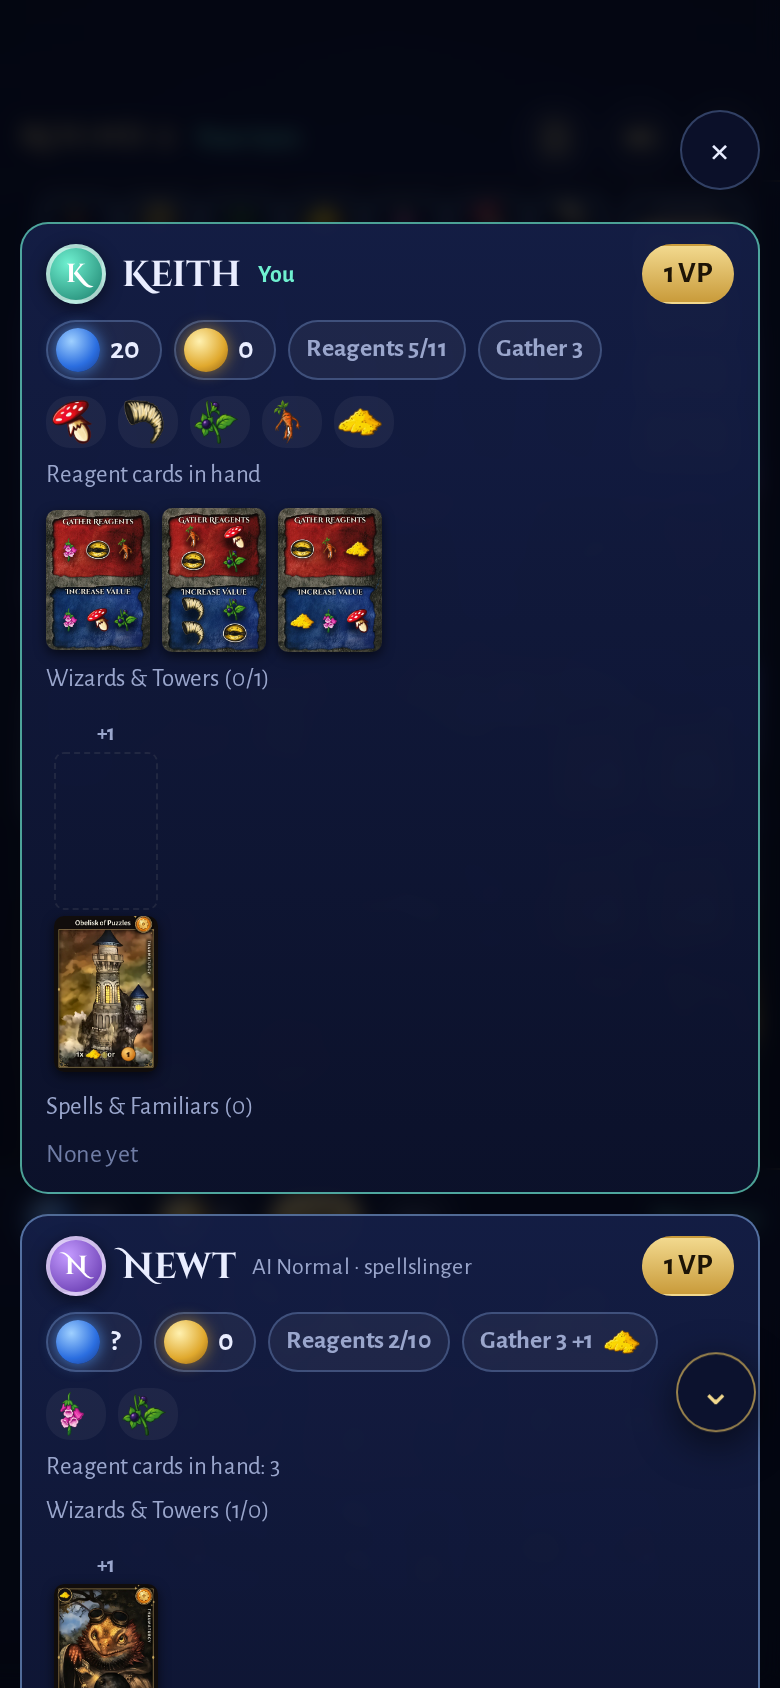
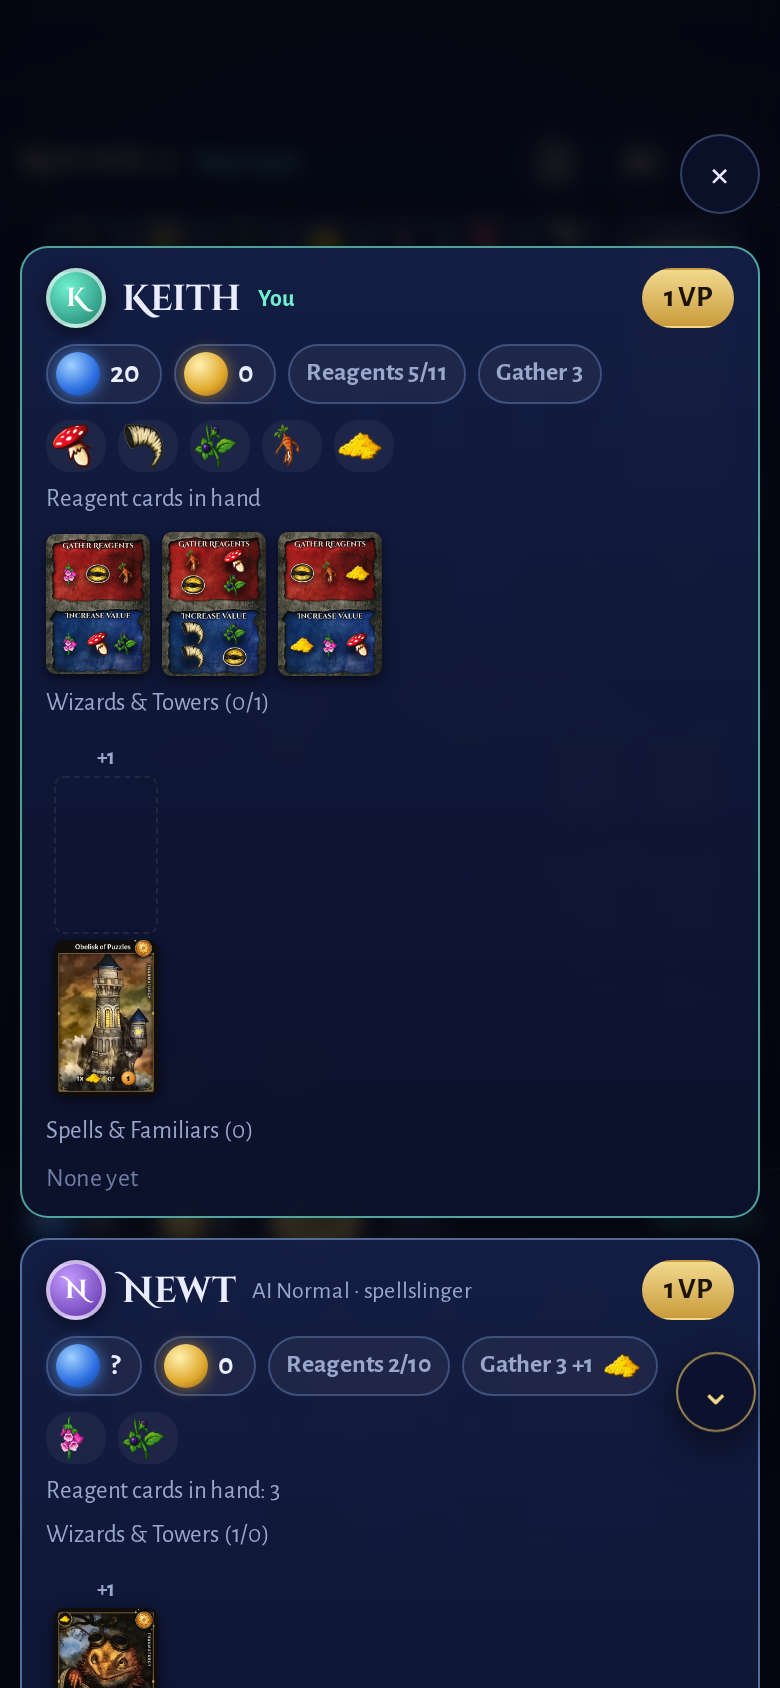
Card detail: frame the card so its trimmed top (title, medallion) never sits flush under the status bar/close row; test Obelisk + Obsidian Fortress with a 59 px status bar; more-below hint ignores the bottom spacer

Changed region(s): [[0.0308, 0.5237, 0.9846, 1.0], [0.0308, 0.0616, 0.9846, 0.4621]]

diff --git a/tests/e2e/phone.spec.js b/tests/e2e/phone.spec.js
@@ -5,7 +5,7 @@ import { test, expect } from './fixtures.js';
 import fs from 'fs';
 import { watchErrors, view, shot, me } from './helpers.js';
 
-const INSET = { top: 47, bottom: 34, chrome: 84 };
+const INSET = { top: 59, bottom: 34, chrome: 84 };          // Dynamic Island status bar (iPhone 14 Pro and later), home indicator, Safari bar
 const G8 = JSON.parse(fs.readFileSync('engine/game/g8_state.json', 'utf8'));
 const P = (s, n) => s.players.find((p) => p.name === n);
 const ACH_FILE = 'engine/cards/cards.json';                 // the achievement pool scripts/deal4.py draws 4 tiles from
@@ -49,24 +49,48 @@ test('Scribe picker: all 5 spell cards reachable above the browser bar; picking 
   expect(errors, errors.join('\n')).toEqual([]);
 });
 
-test('card detail: the whole card is visible under the status bar; close button never covers it', async ({ page }) => {
-  await open(page);
-  await page.getByTestId('slot-tower_face').tap();
-  const ov = page.getByTestId('expanded');
-  await expect(ov).toBeVisible();
-  await page.waitForTimeout(500);
-  await scrollOverlay(page, 'expanded', 'top');
-  const L = await limits(page);
-  const img = await box(page.getByTestId('expanded-img'));
-  const close = await box(ov.getByTestId('ov-close'));
-  expect(img.top, 'card top below the status bar').toBeGreaterThanOrEqual(L.top);
-  expect(close.bottom, 'close button sits above the card, not on it').toBeLessThanOrEqual(img.top + 1);
-  expect(close.top).toBeGreaterThanOrEqual(L.top);
-  await shot(page, '10-card-detail');
-  await scrollOverlay(page, 'expanded', 'bottom');
-  const btn = await box(page.getByTestId('build-reagent'));
-  expect(btn.bottom, 'action button clears the bottom bar').toBeLessThanOrEqual(L.bottom);
-});
+for (const [name, tower] of [['Obelisk of Puzzles', 'Tower_T1_Obelisk_of_Puzzles'], ['Obsidian Fortress', 'Tower_T1_Obsidian_Fortress']]) {
+  test(`card detail (${name}): the card's top edge and title sit fully below the status bar and close row, uncropped`, async ({ page }) => {
+    await open(page, (s) => {
+      const t = `assets/${tower}.jpg`;
+      if (s.tower_face !== t) { s.tow_list = s.tow_list.filter((x) => x !== t); s.tow_list.unshift(s.tower_face); s.tower_face = t; }
+    });
+    await page.getByTestId('slot-tower_face').tap();
+    const ov = page.getByTestId('expanded');
+    await expect(ov).toBeVisible();
+    await expect(page.getByTestId('expanded-img')).toHaveAttribute('src', new RegExp(tower));
+    await page.getByTestId('expanded-img').evaluate((i) => i.decode());
+    await page.waitForTimeout(500);                                   // zoom-in animation
+    await scrollOverlay(page, 'expanded', 'top');
+    const L = await limits(page);
+    const m = await page.getByTestId('expanded-card').evaluate((frame) => {
+      const img = frame.querySelector('img'); const f = frame.getBoundingClientRect(); const r = img.getBoundingClientRect();
+      const close = frame.closest('.overlay').querySelector('[data-testid=ov-close]').getBoundingClientRect();
+      let clipped = null;
+      for (let a = img.parentElement; a && !a.classList.contains('overlay'); a = a.parentElement) {
+        const st = getComputedStyle(a);
+        if (st.overflow === 'visible') continue;
+        const ar = a.getBoundingClientRect();
+        if (r.top < ar.top - 0.5 || r.bottom > ar.bottom + 0.5) clipped = a.className;
+      }
+      const probe = document.elementFromPoint(r.left + r.width / 2, r.top + r.height * 0.03);   // the title band
+      return { f: { top: f.top, bottom: f.bottom }, r: { top: r.top, bottom: r.bottom, w: r.width, h: r.height }, close: close.bottom, closeTop: close.top,
+        art: img.naturalHeight / img.naturalWidth, clipped, titleOnTop: probe === img };
+    });
+    expect(m.closeTop, 'close button below the status bar').toBeGreaterThanOrEqual(L.top);
+    expect(m.f.top, 'card frame below the close row').toBeGreaterThanOrEqual(m.close);
+    expect(m.f.top, 'card frame below the status bar').toBeGreaterThanOrEqual(L.top);
+    expect(m.r.top - m.f.top, 'a frame margin above the card art (the scans are trimmed at the title)').toBeGreaterThanOrEqual(m.r.w * 0.05);
+    expect(Math.abs(m.r.h / m.r.w / m.art - 1), 'card art shown whole (not cropped by CSS)').toBeLessThan(0.01);
+    expect(m.clipped, `card art clipped by .${m.clipped}`).toBeNull();
+    expect(m.titleOnTop, 'nothing covers the card title').toBe(true);
+    expect(m.f.bottom, 'the whole card fits above the Safari bar').toBeLessThanOrEqual(L.bottom);
+    await shot(page, `10-card-detail-${tower.split('_').slice(2).join('-').toLowerCase()}`);
+    await scrollOverlay(page, 'expanded', 'bottom');
+    const btn = await box(page.getByTestId('build-reagent'));
+    expect(btn.bottom, 'action button clears the bottom bar').toBeLessThanOrEqual(L.bottom);
+  });
+}
 
 test('mats: no card is cropped, overlapped or clipped; every card scrolls fully clear of the status bar and Safari bar', async ({ page }) => {
   // Keith's playtest mat: Obelisk of Puzzles (the narrowest tower scan) under an empty wizard slot; Newt's wizard further down.

diff --git a/app/js/ui.js b/app/js/ui.js
@@ -25,7 +25,8 @@ function scrollHint(el) {
   document.getElementById('overlays').appendChild(hint);
   const update = () => {
     if (!el.isConnected || el.classList.contains('out')) { hint.remove(); mo.disconnect(); return; }
-    hint.classList.toggle('off', el.scrollTop > 40 || el.scrollTop + el.clientHeight >= el.scrollHeight - 24);
+    const spacer = parseFloat(getComputedStyle(el, '::after').height) || 0;   // the bottom clearance is not content
+    hint.classList.toggle('off', el.scrollTop > 40 || el.scrollTop + el.clientHeight >= el.scrollHeight - spacer - 24);
   };
   const mo = new MutationObserver(() => requestAnimationFrame(update));
   mo.observe(el, { childList: true, subtree: true });
@@ -81,7 +82,9 @@ export function cardInfo(g, key) {
 export function expandCard(g, key, { actions = [], extra = null } = {}) {
   const ov = openOverlay('expand', { onScrim: (o) => o.close(), testid: 'expanded' });
   const isAch = key.startsWith('Achievement:');
-  const img = isAch ? null : h('img', { class: 'big', src: art(key), alt: key, 'data-testid': 'expanded-img', onclick: () => ov.close() });
+  // The scans are trimmed right at the medallion/title, so the card sits in a dark frame that gives its top edge room.
+  const img = isAch ? null : h('div', { class: 'big-frame', 'data-testid': 'expanded-card', onclick: () => ov.close() },
+    h('img', { class: 'big', src: art(key), alt: key, 'data-testid': 'expanded-img' }));
   ov.el.append(closeBtn(() => ov.close()), img, cardInfo(g, key));
   if (extra) ov.el.append(extra);
   if (actions.length) {

diff --git a/app/css/app.css b/app/css/app.css
@@ -176,7 +176,10 @@ img { -webkit-user-drag: none; user-select: none; }
 
 /* expanded card */
 .expand { justify-content: flex-start; padding: calc(8px + var(--safe-t)) 14px 14px; gap: 12px; }
-.expand .big { width: min(78vw, calc((100vh - var(--safe-t) - var(--clear-b) - 270px) / 1.52), 420px); width: min(78vw, calc((100dvh - var(--safe-t) - var(--clear-b) - 270px) / 1.52), 420px); min-width: 200px; border-radius: 14px; box-shadow: 0 20px 70px rgba(0, 0, 0, .8), 0 0 0 1px rgba(255, 255, 255, .1); animation: zoomIn .28s cubic-bezier(.2, .9, .3, 1.2) both; flex: none; }
+.expand .big-frame { width: min(78vw, calc((100vh - var(--safe-t) - var(--clear-b) - 270px) / 1.62), 420px); width: min(78vw, calc((100dvh - var(--safe-t) - var(--clear-b) - 270px) / 1.62), 420px);
+  min-width: 200px; flex: none; padding: 6% 3% 3%; border-radius: 16px; background: #110d0c;
+  box-shadow: 0 20px 70px rgba(0, 0, 0, .8), 0 0 0 1px rgba(214, 180, 90, .35); animation: zoomIn .28s cubic-bezier(.2, .9, .3, 1.2) both; }
+.expand .big { display: block; width: 100%; height: auto; border-radius: 6px; }
 @keyframes zoomIn { from { transform: scale(.6); opacity: 0; } }
 .cardinfo { width: min(92vw, 460px); background: var(--panel); border: 1px solid var(--line); border-radius: 14px; padding: 12px 14px; }
 .cardinfo .ci-name { font-family: var(--display); font-weight: 700; font-size: 18px; color: var(--gold-hi); }
